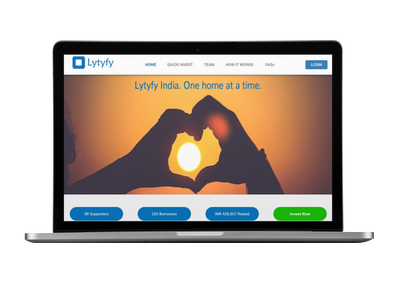
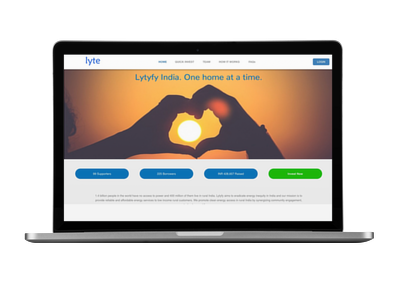
final

Changed region(s): [[0.15, 0.18, 0.84, 0.75]]

diff --git a/index.html b/index.html
@@ -85,7 +85,7 @@ We’re on a mission to provide simpler and affordable ways to purchase and fina
         <h2 style="text-transform: uppercase;text-align:center; padding-left:90px; padding-right:90px; color:#777; font-size:24px; font-family: Open Sans, sans-serif; letter-spacing:1px; line-height:30px; font-weight:10px;">Work</h2>
        
 
-        <div style="margin-left: 140px;margin-right: 140px;" layout="row" layout-padding layout-margin  class="icon-data">
+        <div style="padding-left: 220px;padding-right: 220px;" layout="row" layout-padding layout-margin  class="icon-data">
             <div flex >Lytyfy is currently focused on clean energy financing space and reimagining how clean energy products and services are financed and distributed to the underbanked market segment in India. We are building an integrated value chain that can provide good quality solar products and service to our customers right at their doorsteps with flexible repayment options.
             </div>
             
@@ -95,7 +95,7 @@ We’re on a mission to provide simpler and affordable ways to purchase and fina
          <div style="min-height:200px;margin-top: 10px; background-color: #f2f2f2;">
              <h2 style="text-transform: uppercase;text-align:center;padding-top: 30px;padding-left:90px; padding-right:90px; color:#777; font-size:24px; font-family: Open Sans, sans-serif; letter-spacing:1px; line-height:30px; font-weight:10px;">Projects</h2>
     
-        <div layout="row" layout-align="space-around center" layout-padding layout-margin  class="icon-data">
+        <div style="padding-left: 120px;padding-right: 120px;" layout="row" layout-align="center center" layout-padding layout-margin  class="icon-data">
             <div flex  >Our solar financing platform <strong style="font-size:16px;""><i>Lyte</i></strong> connects individual and institutional investors with curated solar energy projects and creditworthy borrowers willing to purchase solar off-grid products.
             </div>
             <div flex ><img src="./placeit.png"/> 
